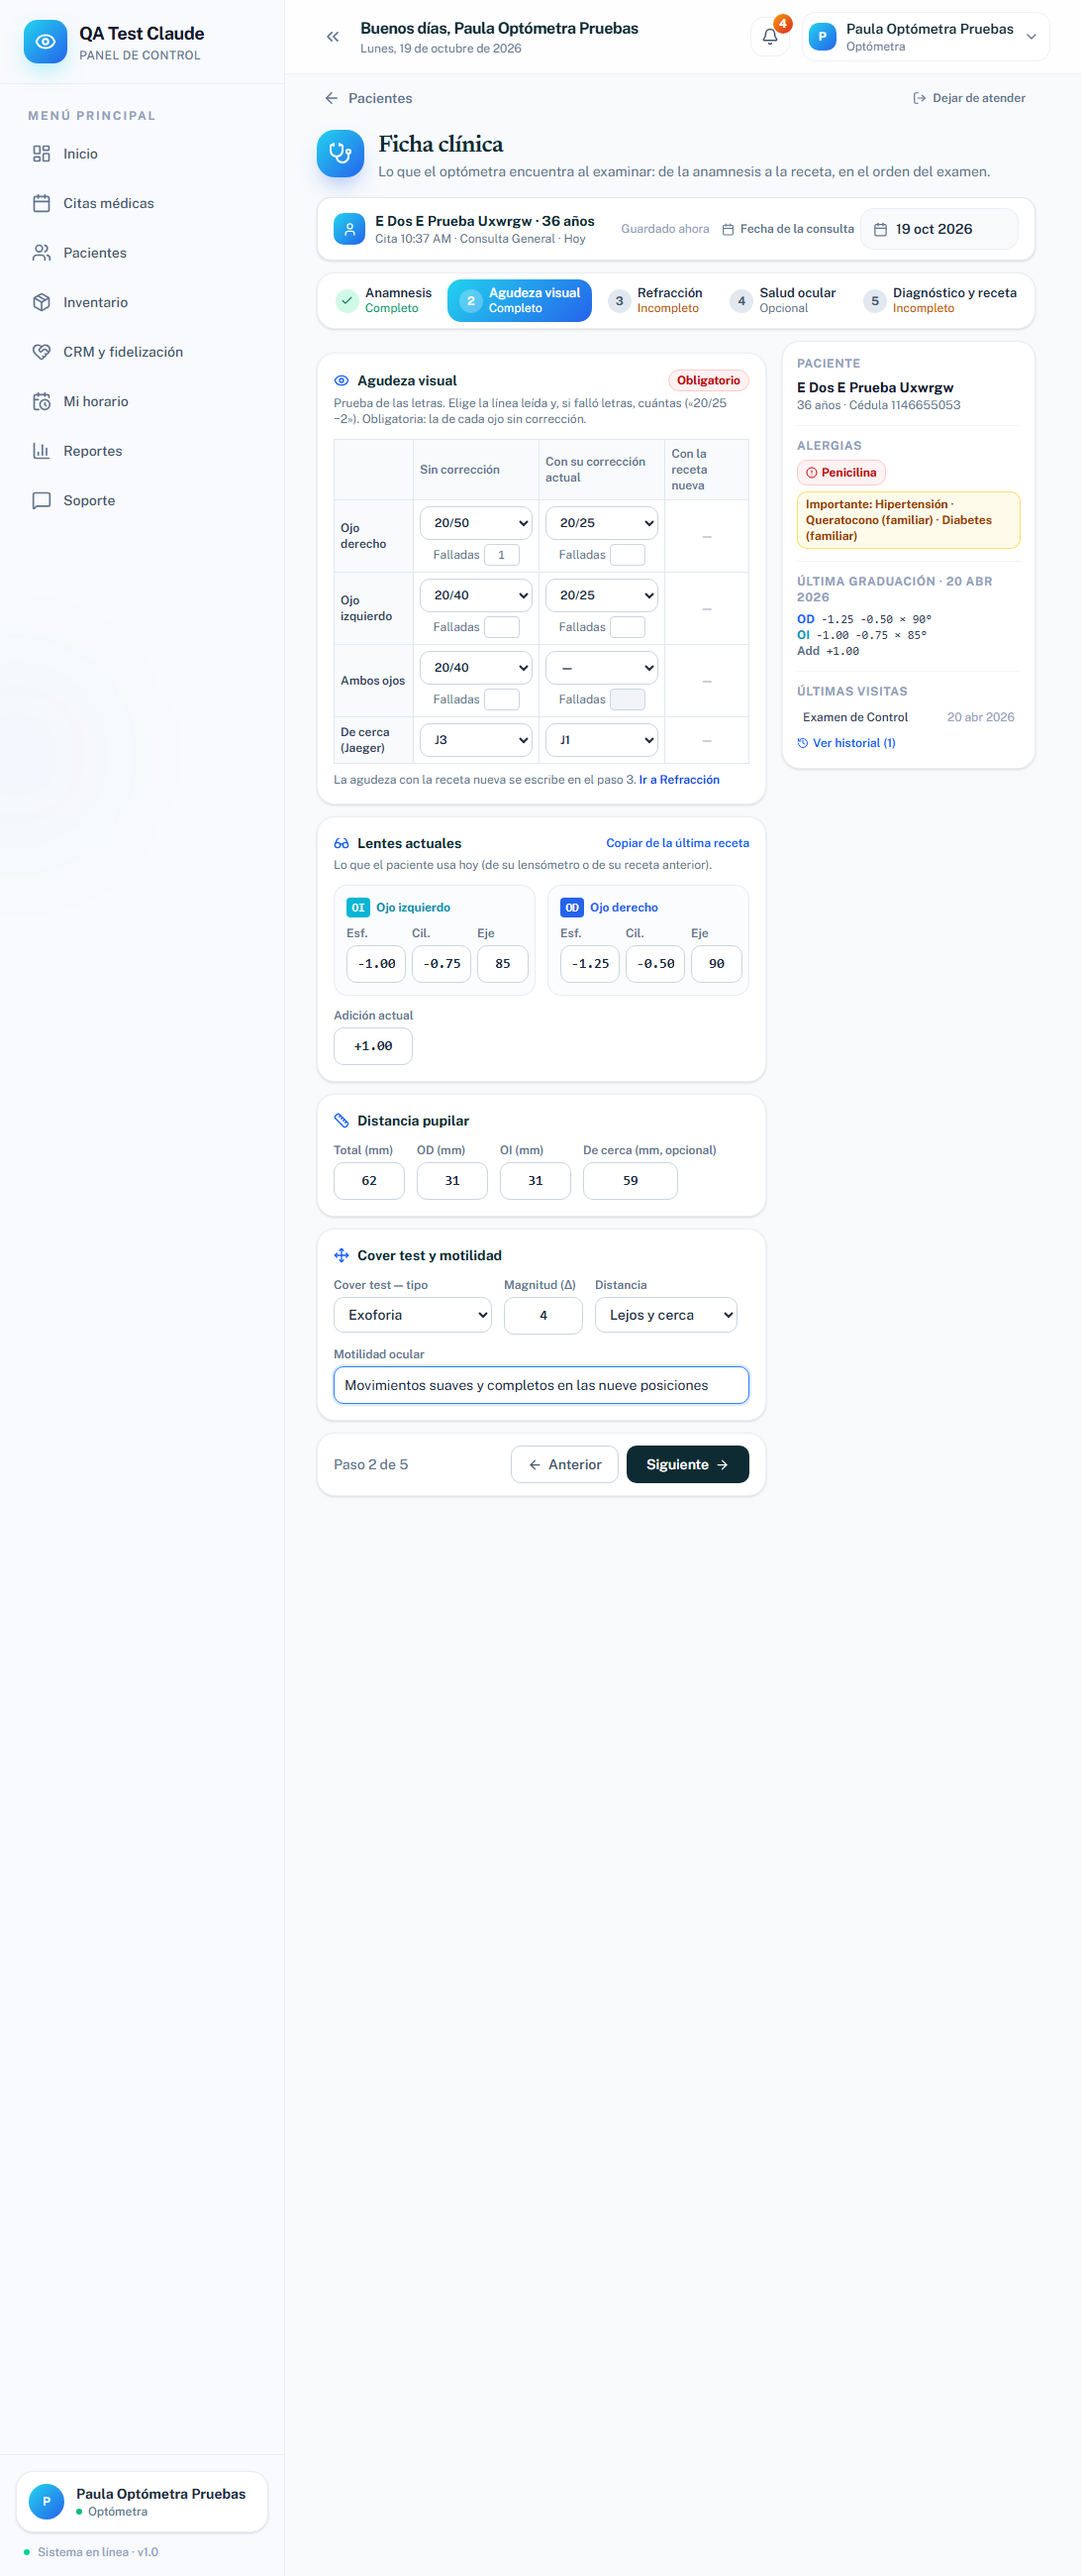
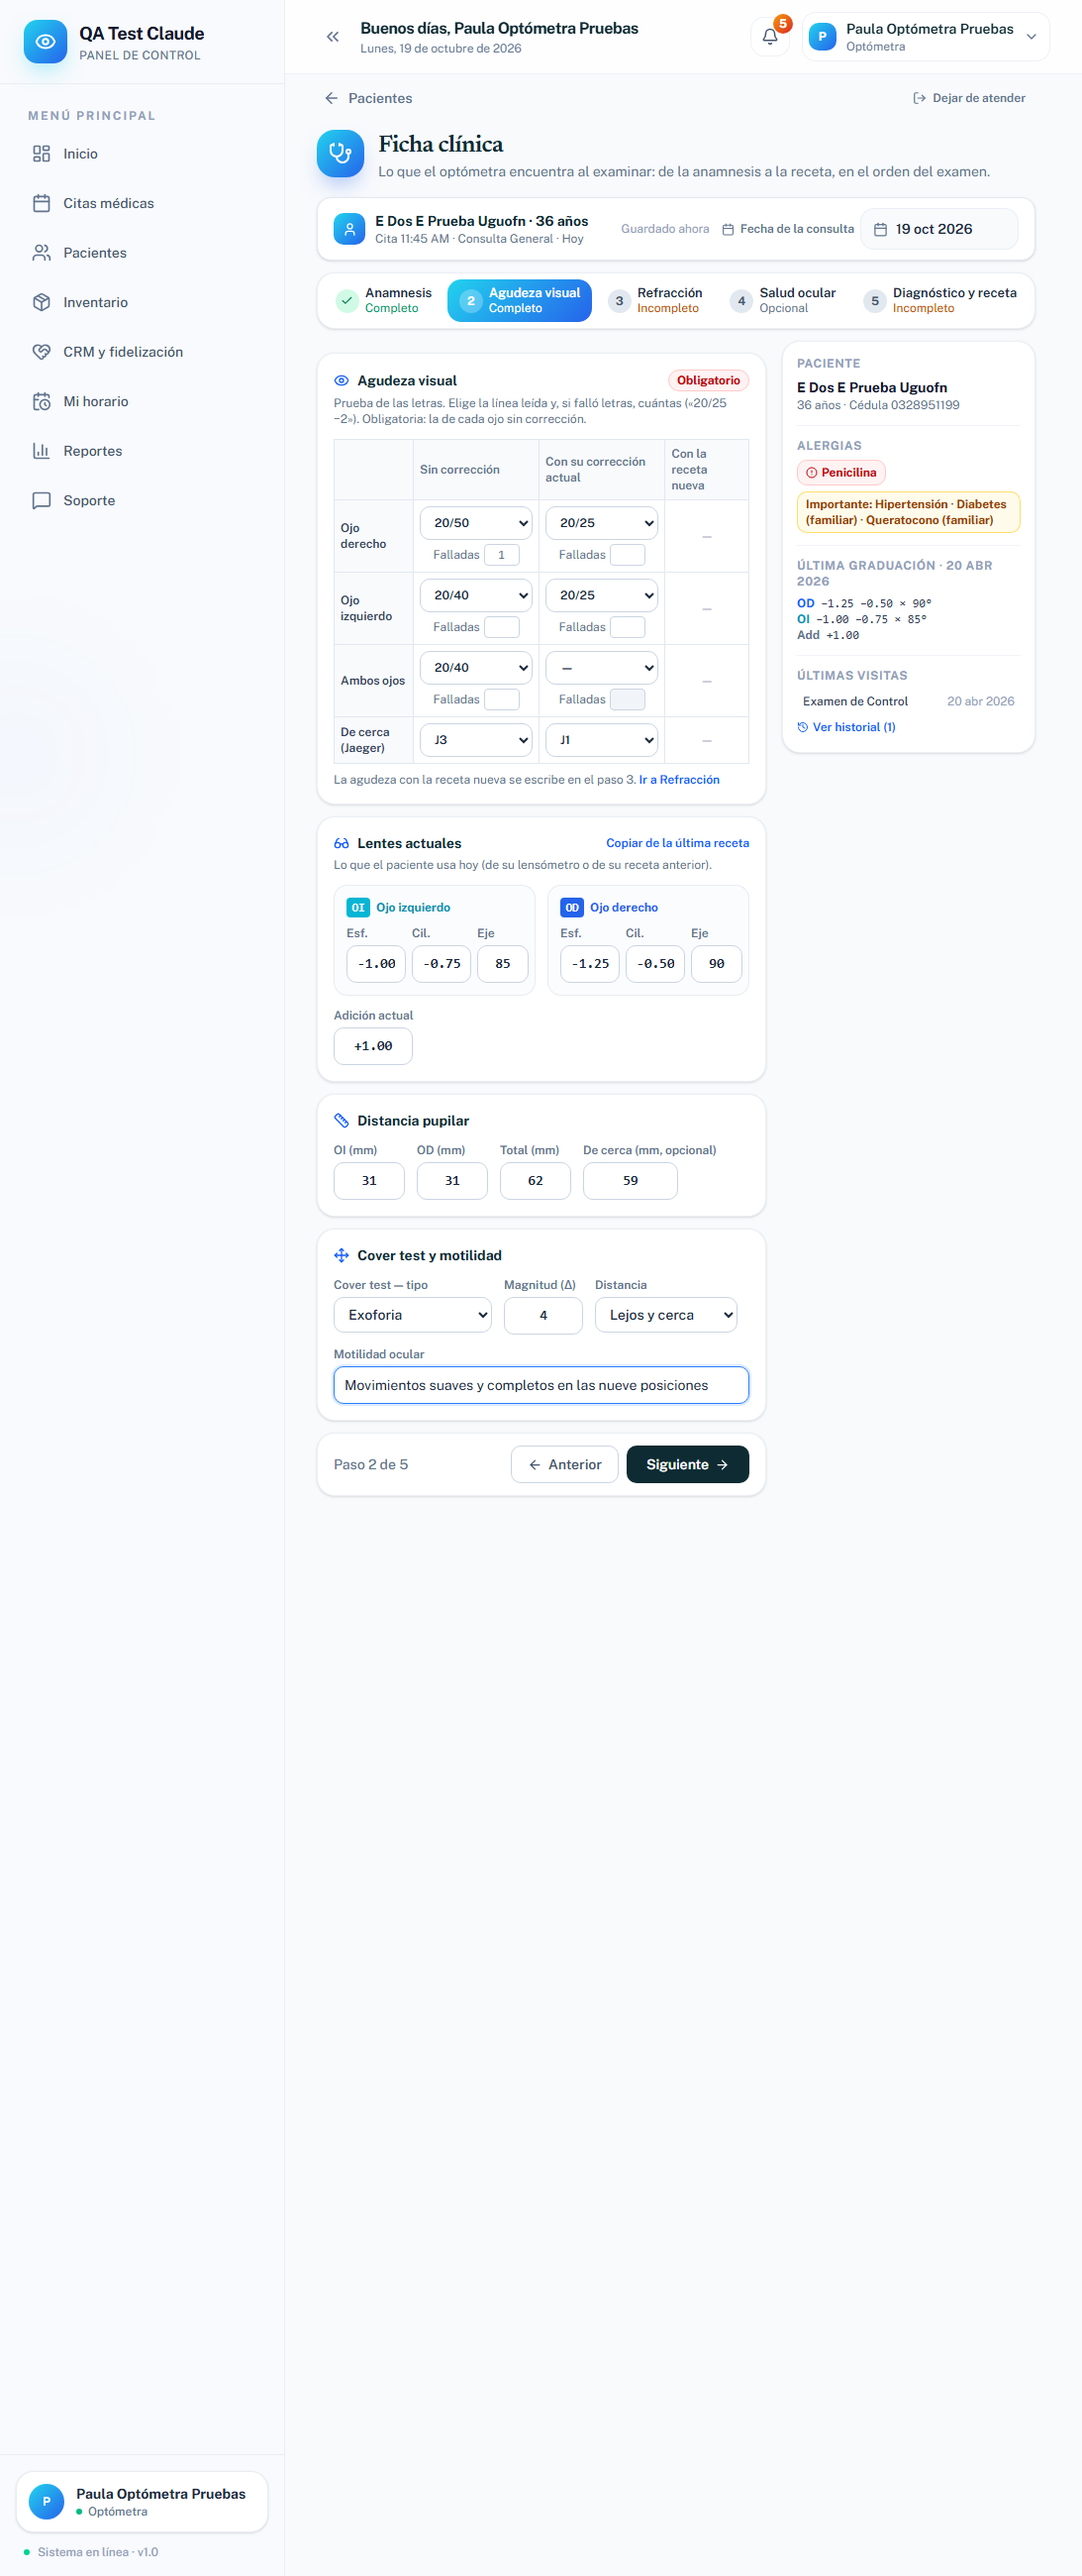
docs: correcciones de la ficha; capturas y e2e al día

diff --git a/e2e/ficha-cinco-pasos.spec.js b/e2e/ficha-cinco-pasos.spec.js
@@ -80,7 +80,7 @@ test('ficha de cinco pasos: se llena, se termina y todo queda como se pidió', a
   await expect(page.getByText('Ya registrados el')).toBeVisible() // antecedentes precargados
   const panel = page.getByRole('complementary', { name: 'Contexto del paciente' })
   await expect(panel).toContainText('Penicilina')
-  await expect(panel).toContainText('-1.25 -0.50 × 90°')
+  await expect(panel).toContainText('−1.25 −0.50 × 90°')
   await page.getByRole('button', { name: 'Borrosidad de cerca' }).click()
   await page.getByRole('button', { name: 'Dolor de cabeza' }).click()
   await page.getByLabel(/Lo que cuenta el paciente/).fill('Le cuesta leer el celular sin alejarlo; termina el día con dolor de cabeza.')
@@ -89,7 +89,7 @@ test('ficha de cinco pasos: se llena, se termina y todo queda como se pidió', a
   await expect(page.getByRole('button', { name: 'Ninguno' }).first()).toBeVisible()
   await page.getByRole('button', { name: 'Queratocono' }).click()
   await page.getByLabel('Cuáles').fill('Losartán 50 mg')
-  await page.getByRole('button', { name: 'Hipertensión' }).click()
+  await expect(page.getByRole('button', { name: 'Hipertensión' })).toHaveAttribute('aria-pressed', 'true') // precargado: la opción ya viene marcada
   await page.getByLabel('Desde cuándo').fill('3 años')
   await foto(page, 'paso-1-anamnesis')
   // Las últimas visitas se abren en solo lectura

diff --git a/e2e/ficha-coherencia.spec.js b/e2e/ficha-coherencia.spec.js
@@ -83,7 +83,8 @@ test.afterAll(async () => {
     await c.query("delete from pases_a_venta where paciente_id = $1 and consulta_id in (select id from consultas_base where paciente_id = $1 and fecha >= '2026-10-01')", [ids.paciente]).catch(() => {})
     await c.query("delete from consultas_base where paciente_id = $1 and (fecha >= '2026-10-01' or fecha = '2026-04-20')", [ids.paciente])
     await c.query("delete from citas_base where paciente_id = $1", [ids.paciente])
-    await c.query("update pacientes_base set fecha_nacimiento = $2, estado_correccion = null, evolucion = null, ultima_consulta = null where id = $1", [ids.paciente, original.nacimiento]).catch(() => {})
+    await c.query('update pacientes_base set fecha_nacimiento = $2 where id = $1', [ids.paciente, original.nacimiento])
+    await c.query("update pacientes_base set ultima_consulta = 'Pendiente' where id = $1", [ids.paciente]).catch(() => {})
     await c.query("update opticas set settings = $2::jsonb where id = $1", [ids.optica, JSON.stringify(original.settings || {})])
   })
   if (clienteAdmin) await clienteAdmin.from('opticas').update({ logo_url: original.logo }).eq('id', ids.optica)

diff --git a/e2e/perfil-graduacion.spec.js b/e2e/perfil-graduacion.spec.js
@@ -45,7 +45,7 @@ for (const rol of ['ADMIN', 'OPTOMETRA', 'RECEPCION', 'VENTAS']) {
     await expect(page.getByRole('button', { name: /Elegir otra receta/ })).toContainText('Receta del 20 de abril de 2026 · vigente')
     const od = page.getByRole('region', { name: 'Ojo derecho' })
     await expect(od).toContainText('OD · Ojo derecho')
-    for (const t of ['Esfera', 'Cilindro', 'Eje', 'AV sin lentes', 'AV con lentes']) await expect(od).toContainText(t)
+    for (const t of ['Esfera', 'Cilindro', 'Eje', 'Sin corrección', 'Con su corrección actual']) await expect(od).toContainText(t)
     await expect(page.getByLabel('Medidas de la receta')).toContainText('Distancia pupilar (DP)')
     // sin «Cambio» ni «Tendencia»: los cubren «Comparar dos recetas» y la historia de cada ojo
     await expect(page.getByRole('region', { name: 'Cambio desde la consulta anterior' })).toHaveCount(0)

diff --git a/docs/estado-actual.md b/docs/estado-actual.md
@@ -1,3 +1,11 @@
+## 19 oct. 2026 (noche) — correcciones de la revisión de la ficha (SIN publicar)
+- **Migración 0133 APLICADA** (respaldo `pre-0133-2026-10-19.dump`, ensayo `scripts/ensayo-0133.mjs`, verificación con sesión real `scripts/verificar-0133.mjs`): el portal recibe agudeza con la receta nueva, adición por ojo, DP por ojo y prisma (la DP solo si la óptica lo permite); nunca anamnesis ni salud ocular.
+- **Un solo cambio de graduación** (`utilidades/cambioGraduacion.js`): la esfera de cada ojo en pasos de 0.25, en palabras («0.50 más de miopía»), igual en la ficha, el perfil, el portal y el Inicio. El veredicto Aumentó/Disminuyó sale de la misma cuenta. Una sola función de lectura de dioptrías (`dioptriaTexto`: +/− y punto decimal) y un solo nombre de agudeza (Sin corrección · Con su corrección actual · Con la receta nueva).
+- **Registro profesional** obligatorio en Usuarios para quien puede crear fichas (sin SQL nuevo: la columna ya existía); el encabezado de la receta lleva logo, dirección y teléfono (`datosOpticaReceta`).
+- **Ficha:** diagnóstico sugerido, DP total automática, hora AM/PM, test de color «14 de 14» + interpretación, antecedentes precargados que marcan la opción, campos vacíos con «—», listas que caben.
+- **Prueba que no limpiaba:** `pago-por-transferencia` dejaba una venta de $30 al paciente fijo del portal si se cortaba por tiempo (su `finally` no corre en un timeout). Ahora limpia en `afterEach` y la limpieza de la óptica de pruebas quita lo que sobre del paciente fijo (conserva su CV-0006).
+- Verificación cruzada con el mismo paciente: `e2e/ficha-coherencia.spec.js` (capturas en `docs/ficha-coherencia/`).
+
 ## 19 oct. 2026 (tarde) — ficha clínica en cinco pasos implementada (SIN publicar)
 - **Ficha:** Anamnesis · Agudeza visual · Refracción · Salud ocular (opcional) · Diagnóstico y receta, con panel de contexto fijo, transposición, validaciones, agudeza con la receta nueva (un solo dato), adición y prisma por ojo, DP por ojo. Tabla de campos y datos en `docs/ficha-cinco-pasos.md`; capturas con datos reales a 1093 px en `docs/ficha-cinco-pasos/` (`e2e/ficha-cinco-pasos.spec.js`). **La ficha debe validarla la optómetra de la óptica.**
 - **Concordancia:** estado de corrección con la agudeza con la receta nueva (ficha, perfil, Reportes por lo guardado), HojaReceta (adición, DP por ojo, prisma, AV con la receta), pestaña Graduación, orden de laboratorio (altura de montaje POR OJO, adición por ojo, DP de cerca y prisma precargados), detalle de la atención y fichas anteriores sin cambios de datos.
